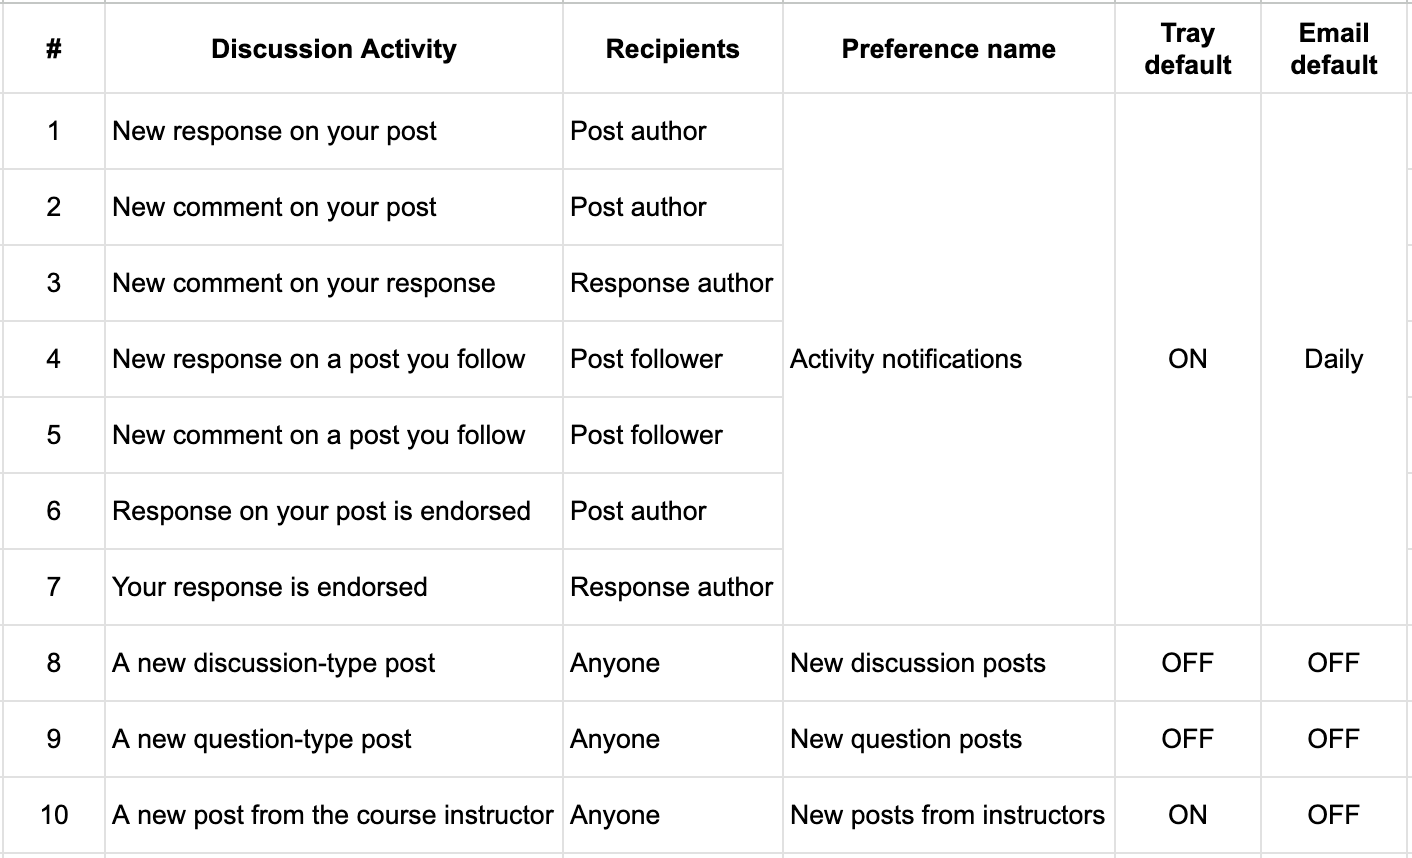
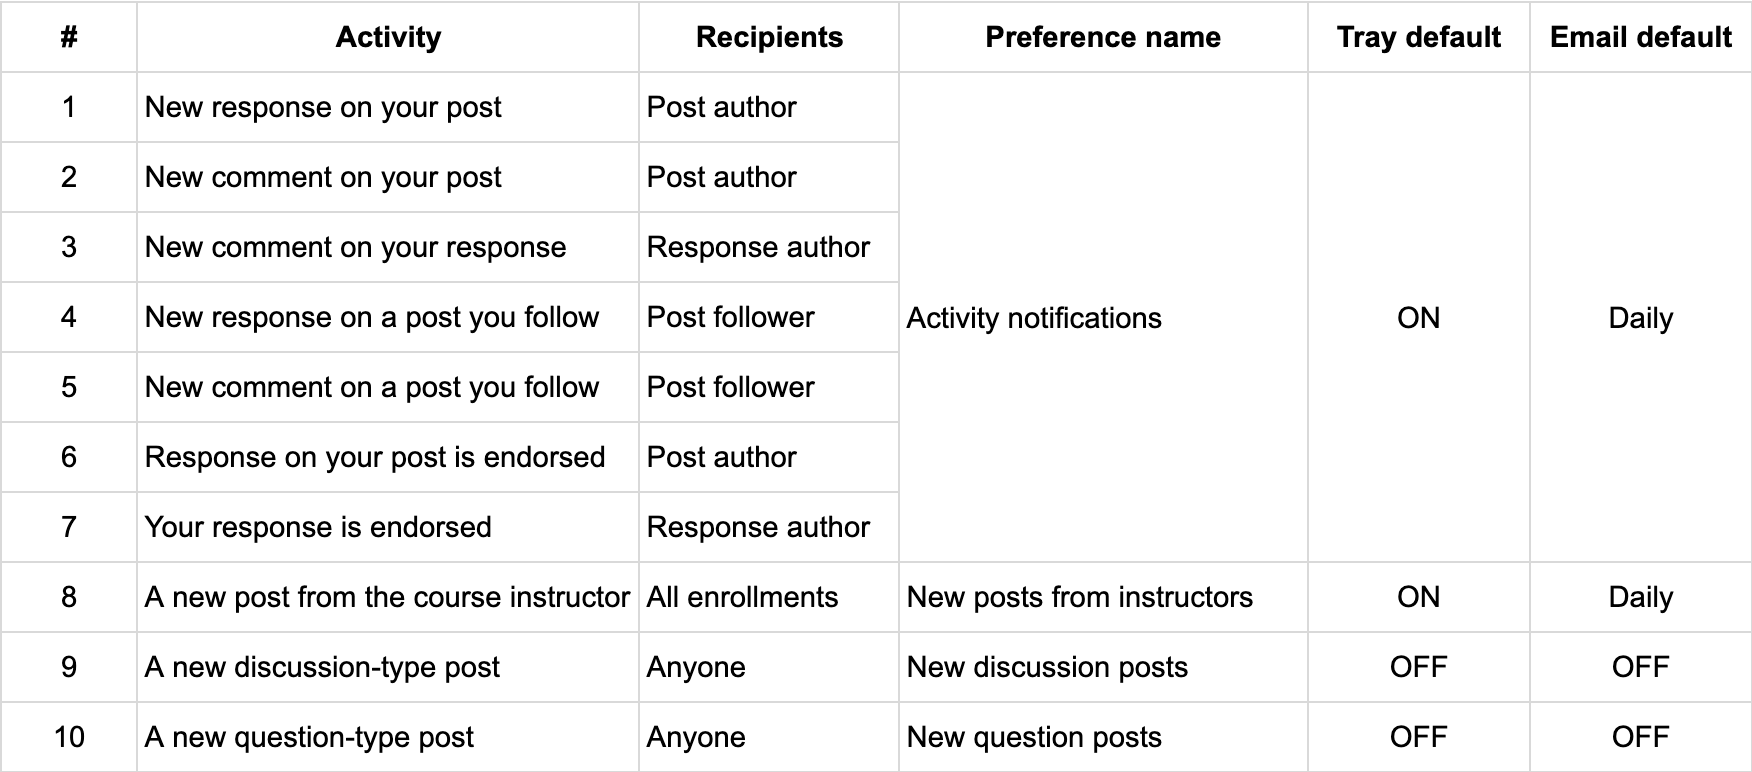
Docs: Modified list of default email preferences

diff --git a/source/learners/sfd_discussions/discussions_notifications.rst b/source/learners/sfd_discussions/discussions_notifications.rst
@@ -14,9 +14,9 @@ Discussion notifications keep you informed when others interact with your posts 
 There are four notification preferences for Discussions:
 
 1. **Activity notifications**: Notifies you of all activity related to posts or responses you've authored or are following.
-2. **New question posts**: Notifies you when someone creates a new question type post in your course.
+2. **New posts from instructors**: Notifies you when an instructor creates a post.
 3. **New discussion posts**: Notifies you when someone creates a new discussion type post.
-4. **New posts from instructors**: Notifies you when an instructor or staff member creates a post.
+4. **New question posts**: Notifies you when someone creates a new question type post.
 
 Table in the image below shows which activity types trigger notifications. Several activity types are grouped
 into a single preference to avoid clutter in preferences.
